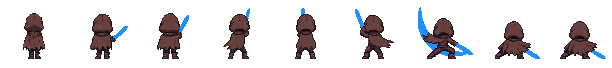
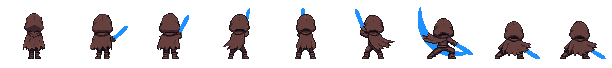
fix: 후면 1타 망토를 8장 모두 같은 화질로 맞춤
사용자 지적: 망토 화질이 프레임마다 다름. 8장이 서로 다른 방법으로 그려져 주름·밑단·노이즈가 달랐다.
최종 8장을 한 번의 transfer_outfit 으로 함께 다시 입히고, 색감 맞춤과 외톨이 점 정리를 거친다.

diff --git a/assets/concepts/pixellab/player_import/build_attack_back_v2.py b/assets/concepts/pixellab/player_import/build_attack_back_v2.py
@@ -29,7 +29,27 @@ MIRROR = True
 # 오른쪽 장은 뒤집지 않은 1·2번, 왼쪽 장은 뒤집은 4번. 머리 위 두 장은 PixelLab animate_image 가
 # 뒤집지 않은 4번(오른쪽 위) → 뒤집은 4번(왼쪽 위) 사이를 그린 것 (attack_back_kit/hit1_v2/overhead/o1, o2).
 OVERHEAD = os.path.join(HERE, 'attack_back_kit', 'hit1_v2', 'overhead')
+RESTYLE2_IN = os.path.join(HERE, 'attack_back_kit', 'hit1_v2', 'restyle2_in')
+RESTYLE2 = os.path.join(HERE, 'attack_back_kit', 'hit1_v2', 'restyle2_out')
 ORDER = [('p', 1), ('p', 2), ('o', 1), ('o', 2), ('m', 4), ('m', 5), ('m', 7), ('m', 8)]
+
+
+def despeckle(im):
+    """몸 안의 외톨이 점 정리: 위아래·양옆 네 이웃 중 셋 이상이 같은 한 색인데 자기만 다른 픽셀을 그 색으로 (테두리·파랑은 그대로)."""
+    out = im.copy()
+    src, dst = im.load(), out.load()
+    for y in range(1, im.height - 1):
+        for x in range(1, im.width - 1):
+            p = src[x, y]
+            if p[3] < 255 or b.is_blue(p) or max(p[:3]) < 45:
+                continue
+            nb = [src[x + dx, y + dy] for dx, dy in ((1, 0), (-1, 0), (0, 1), (0, -1))]
+            if any(n[3] < 255 or max(n[:3]) < 45 for n in nb):
+                continue
+            for c in set(nb):
+                if c != p and nb.count(c) >= 3:
+                    dst[x, y] = c
+    return out
 
 
 def match_tones(cells, ref):
@@ -116,17 +136,25 @@ def main():
             cell = pb.snap(Image.open(restyled).convert('RGBA'), palette)  # 같은 68 칸 자리로 돌려받음
         body.append(cell)
     body = [body[0]] + match_tones(body[1:], body[0])
-    plain, flipped = [], []
-    for k, cell in enumerate(body):
-        if k - 1 == SWOOSH[0]:
-            arc = bp.swoosh(cell.size, *SWOOSH[1])  # 판정 장: 잔상은 몸 뒤 (뒷모습이라 칼은 몸 너머, 같은 날 사용자 지적)
-            arc.alpha_composite(cell)
-            cell = arc
-        plain.append(cell)
-        flipped.append(cell.transpose(Image.FLIP_LEFT_RIGHT) if MIRROR and k > 0 else cell)
+    plain = list(body)
+    flipped = [cell.transpose(Image.FLIP_LEFT_RIGHT) if MIRROR and k > 0 else cell for k, cell in enumerate(body)]
     # 장 순서 (ORDER): ('p', k) = 뒤집지 않은 k번째, ('m', k) = 뒤집은 k번째, ('o', n) = 머리 위로 넘기는 PixelLab 사이 장
     overhead = {n: pb.snap(Image.open(os.path.join(OVERHEAD, f'o{n}.png')).convert('RGBA'), palette) for n in (1, 2)}
     picked = [body[0]] + [plain[k] if src == 'p' else flipped[k] if src == 'm' else overhead[k] for src, k in ORDER]
+    # 망토 통일 (같은 날 사용자: 망토 화질이 프레임마다 다름): 8장을 한 번에 같은 참고 그림으로 다시 입힌 것(restyle2_out)이
+    # 있으면 그것을 쓰고, 8장 함께 색감을 맞춘 뒤 외톨이 점을 정리한다. 입력(잔상 없는 8장)은 restyle2_in 에 남긴다.
+    os.makedirs(RESTYLE2_IN, exist_ok=True)
+    for k, cell in enumerate(picked):
+        cell.save(os.path.join(RESTYLE2_IN, f'f{k}.png'))
+    if all(os.path.exists(os.path.join(RESTYLE2, f'r{k}.png')) for k in range(1, 9)):
+        redone = [pb.snap(Image.open(os.path.join(RESTYLE2, f'r{k}.png')).convert('RGBA'), palette) for k in range(1, 9)]
+        picked = [picked[0]] + [despeckle(c) for c in match_tones(redone, picked[0])]
+    # 판정 장: 잔상은 몸 뒤 (뒷모습이라 칼은 몸 너머). 잔상 자리는 뒤집기 전 기준이라 같이 뒤집는다.
+    cut = 1 + ORDER.index(('m', SWOOSH[0] + 1))
+    arc = bp.swoosh(picked[cut].size, *SWOOSH[1])
+    arc = arc.transpose(Image.FLIP_LEFT_RIGHT) if MIRROR else arc
+    arc.alpha_composite(picked[cut])
+    picked[cut] = arc
     sheet = Image.new('RGBA', (68 * 9, 68), (0, 0, 0, 0))
     for k, cell in enumerate(picked):
         sheet.alpha_composite(cell, (k * 68, 0))
